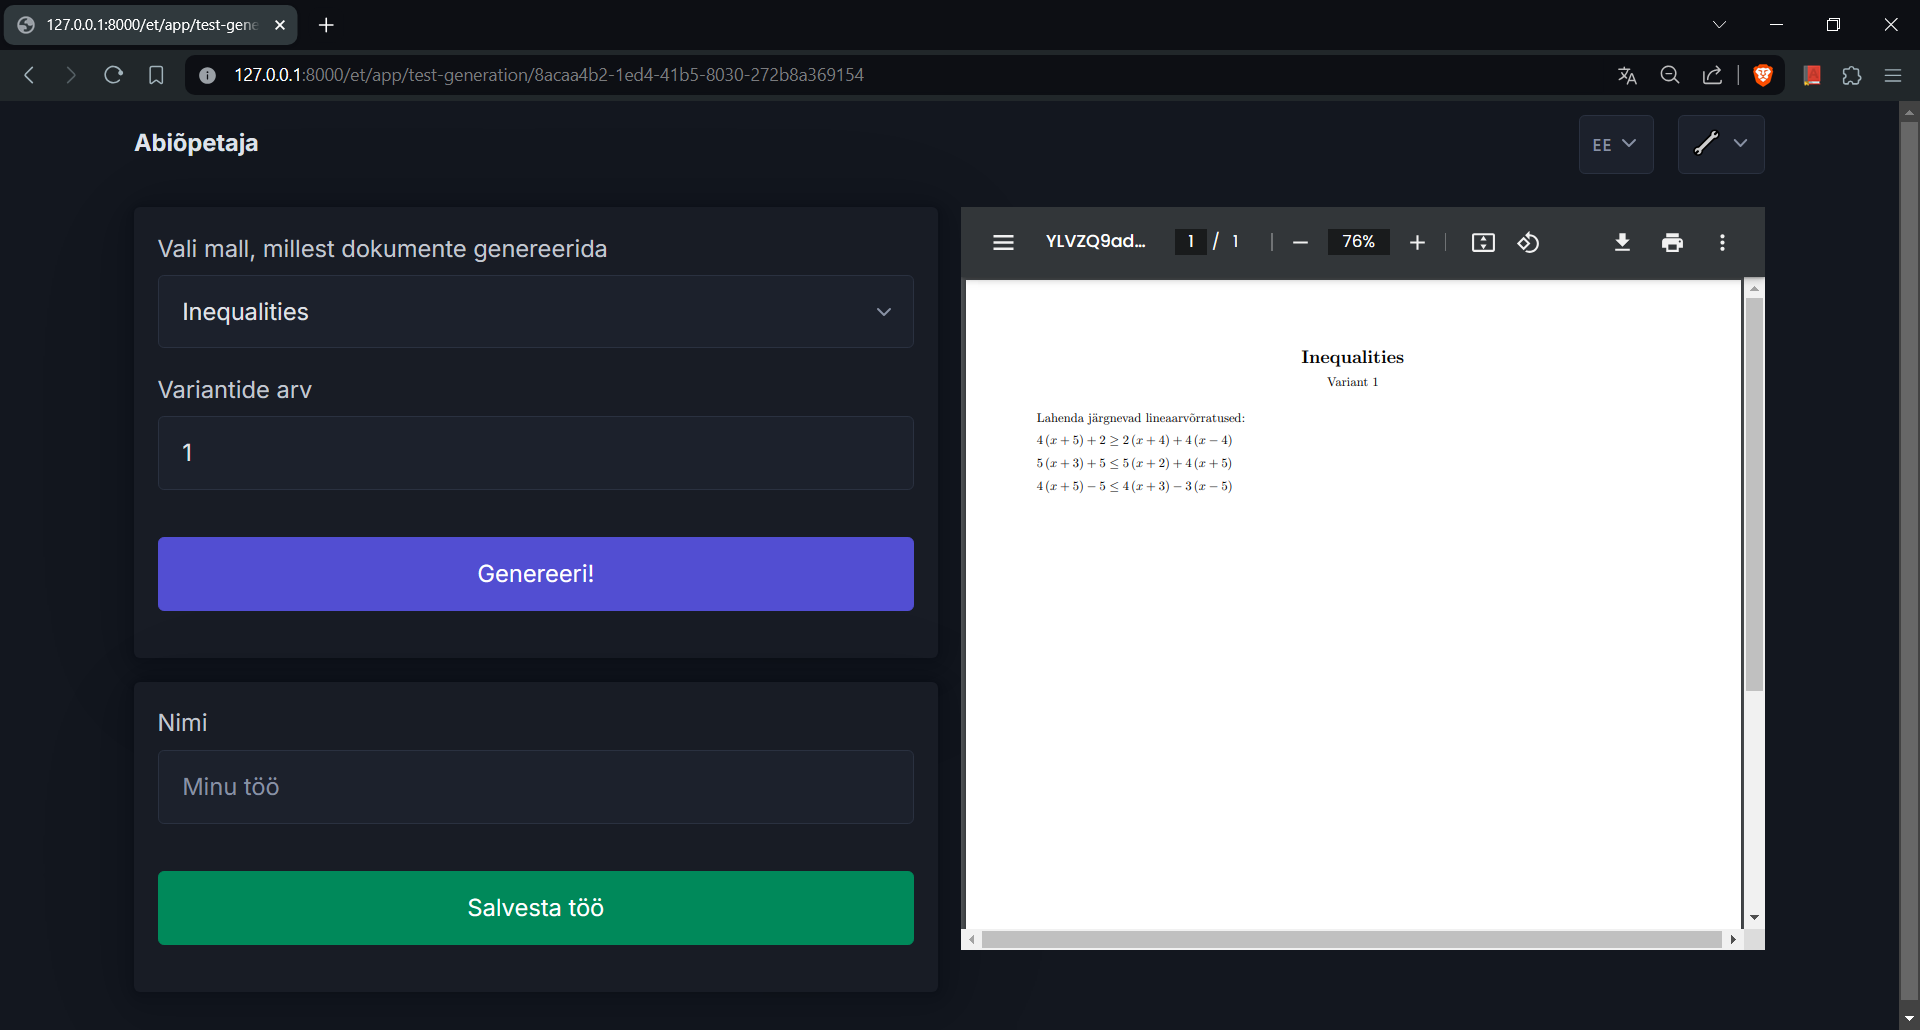
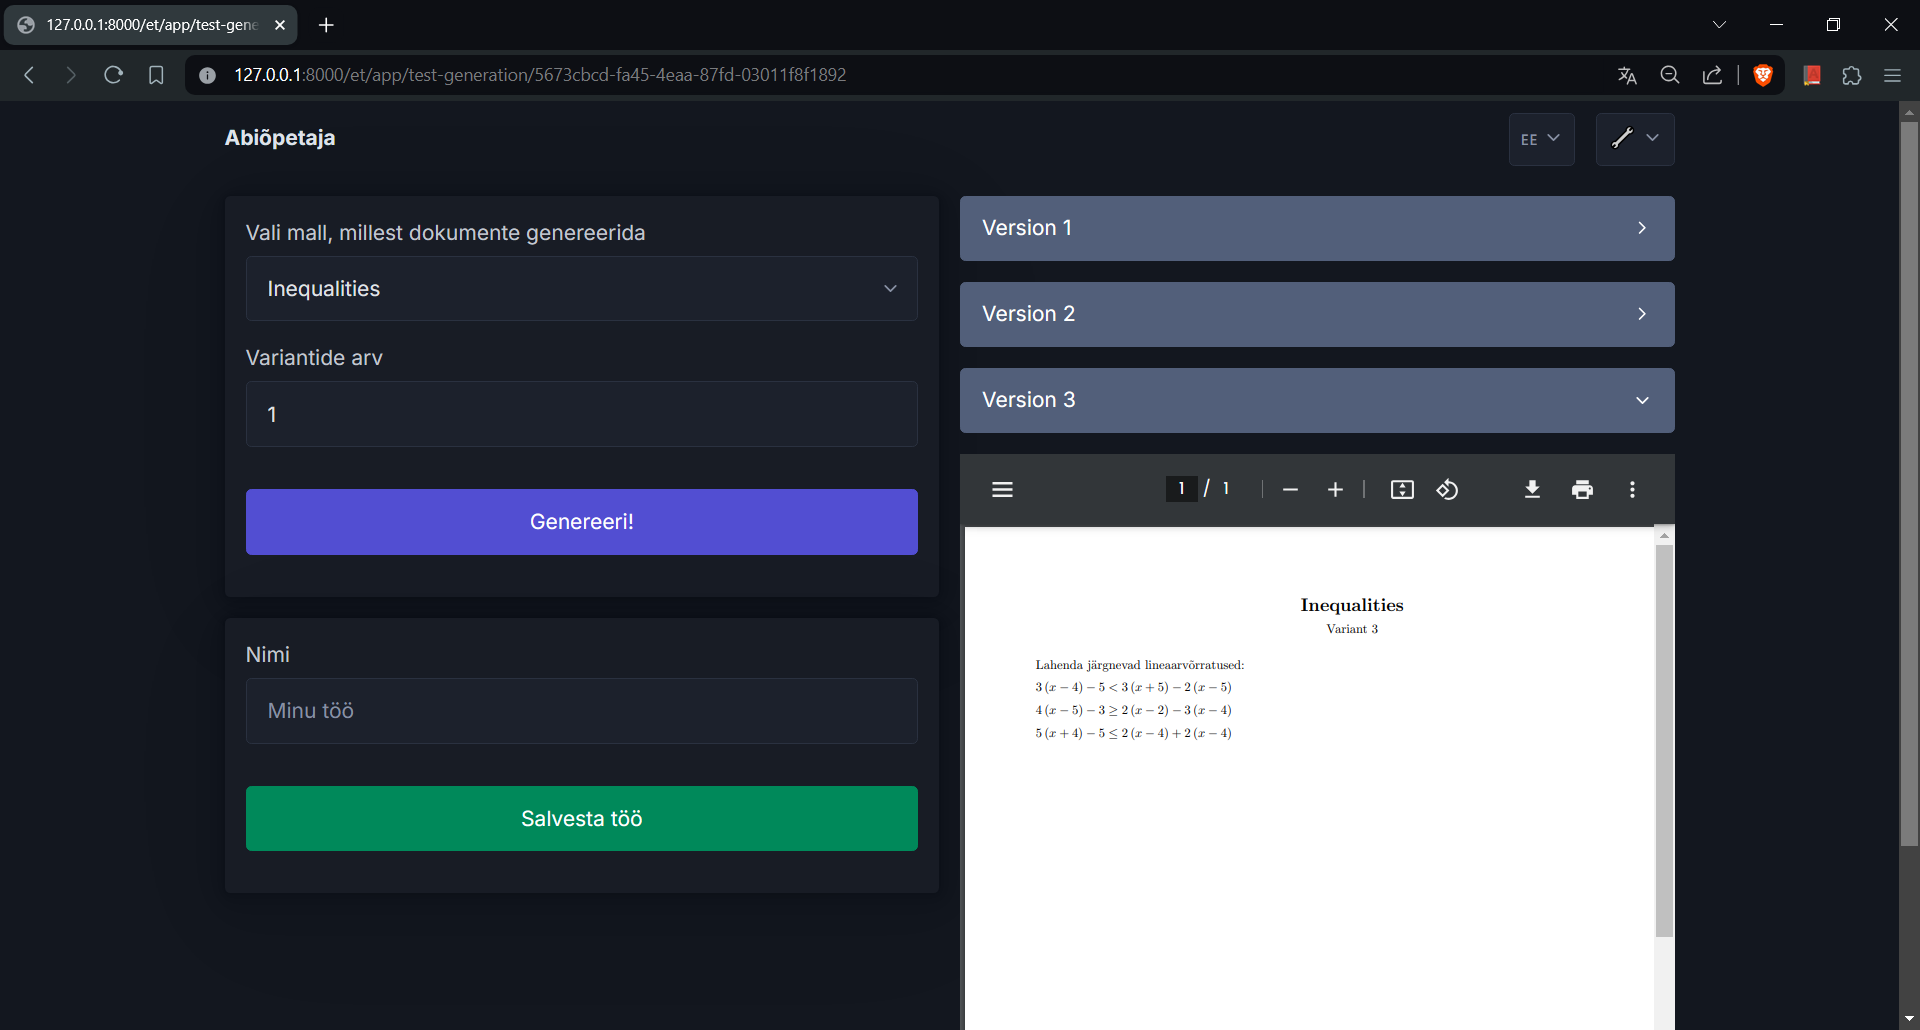
feat(chapter): development: subsection: creating views
* tweak: replace `test_generation_save_view.png` with newer version

* feat(chapter): development: subsection: add views text

* tweak(chapter): development: fix typo, rename test

diff --git a/src/chapters/development.tex b/src/chapters/development.tex
@@ -117,7 +117,7 @@ Joonises \ref{fig:uml} on näidatud rakenduse lihtsustatud olemisuhtediagramm.
 
 \subsection{Vaadete loomine}
 
-Töö nõuete täitmiseks oli vajalik luua mitu vaadet, mis tagaks kasutajale võimaluse luua ning hallata teste ja testide malle (vt jaotis \ref{sec:functional-requirements}).
+Töö nõuete täitmiseks oli vajalik luua mitu vaadet, mis tagaks kasutajale võimaluse luua ning hallata töid ja tööde malle (vt jaotis \ref{sec:functional-requirements}).
 
 Rakendusele loodi järgnevad vaated:
 \begin{itemize}
@@ -130,38 +130,51 @@ Rakendusele loodi järgnevad vaated:
   \item malli detailide uuendamise vaade
   \item malli probleemi lisamise vaade
   \item malli probleemi uuendamise vaade
-  \item testi genereerimise vaade
-  \item testi salvestamise vaade
-  \item testide koondvaade
-  \item testi detailvaade
+  \item töö genereerimise vaade
+  \item töö salvestamise vaade
+  \item tööde koondvaade
+  \item töö detailvaade
   \item ülesande tüüpide koondvaade
   \item ülesande variandi alla laadimise vaade
   \item ülesande vastustelehe alla laadimise vaade
 \end{itemize}
 
-Joonis \ref{fig:dashboard_view} kuvab rakenduse avalehte. Joonis \ref{fig:template_details_view} kuvab malli detailvaadet. Joonis \ref{fig:test_generation_save_view} kuvab testi salvestamise vaadet peale seda kui test on genereeritud.
+Rakenduse esmasel kasutusel saabub kasutaja sisselogimise vaatele. Sealt edasi on tal võimalik täita kasutajanime ja salasõna väljad ning rakendusse sisse logida. Juhul kui kasutajal puudub konto saab ta suunduda konto loomise vaatesse.
 
-Rakenduse esmasel kasutusel saabub kasutaja sisselogimise vaatele. Sealt edasi on tal võimalik täita kasutajanime ja salasõna väljad ning rakendusse sisse logida.
+Kui kasutaja on rakendusse sisse loginud suunatakse ta avalehele. Avalehel on kasutajal võimalik edasi liikuda mallide koondvaatesse, loodud tööde koondvaatesse, töö genereerimise vaatesse või kuvada igat ülesandetüüpi. Lisaks on võimalik valida rakenduse kuvamise keelt ning rakendusest välja logida. Joonis \ref{fig:dashboard-view} kuvab rakenduse avalehte.
+
+Malli koondvaates näeb kasutaja nimekirja olemasolevatest mallidest. Selles vaates on kasutajal võimalik luua uusi malle või kuvada olemasolevate mallide detaile. Malli detailvaates saab kasutaja hallata mallis olevaid probleeme. Joonis \ref{fig:template-details-view} kuvab malli detailvaadet.
+
+Töö genereerimise vaates saab kasutaja valida malli ning määrata variantide arvu. Vajutades \textit{genereeri} nuppu luuakse nii mitu töö varianti kui kasutaja määras. Seejärel saab kasutaja määrata tööle nime ning selle salvestada. Joonis \ref{fig:test-generation-save-view} kuvab töö salvestamise vaadet peale seda kui töö on genereeritud.
+
+Avalehelt saab kasutaja liikuda tööde koondvaatesse, kus on kuvatud kasutaja poolt loodud tööd. Valides nimekirjast ühe töö kuvatakse selle töö variante ning vastuselehte, kus on kirjas iga variandi vastused. Vajutades variandile kuvatakse sellega seotud PDF faili, mida on võimalik kasutajal printida. Joonis \ref{fig:test-details-view} kuvab töö detailide vaadet.
 
 \begin{figure}[H]
     \centering
     \includegraphics[width=\textwidth]{dashboard_view}
-    \caption{Rakenduse avalehe vaade}
-    \label{fig:dashboard_view}
+    \caption{Rakenduse avalehe vaade.}
+    \label{fig:dashboard-view}
 \end{figure}
 
 \begin{figure}[H]
     \centering
     \includegraphics[width=\textwidth]{templates_details_view}
-    \caption{Malli detailvaade}
-    \label{fig:template_details_view}
+    \caption{Malli detailvaade.}
+    \label{fig:template-details-view}
 \end{figure}
 
 \begin{figure}[H]
     \centering
     \includegraphics[width=\textwidth]{test_generation_save_view}
-    \caption{Testi salvestamise vaade}
-    \label{fig:test_generation_save_view}
+    \caption{Töö salvestamise vaade.}
+    \label{fig:test-generation-save-view}
+\end{figure}
+
+\begin{figure}[H]
+    \centering
+    \includegraphics[width=\textwidth]{test_details_view}
+    \caption{Töö detailide vaade.}
+    \label{fig:test-details-view}
 \end{figure}
 
 \subsection{Rakenduse testimine}
